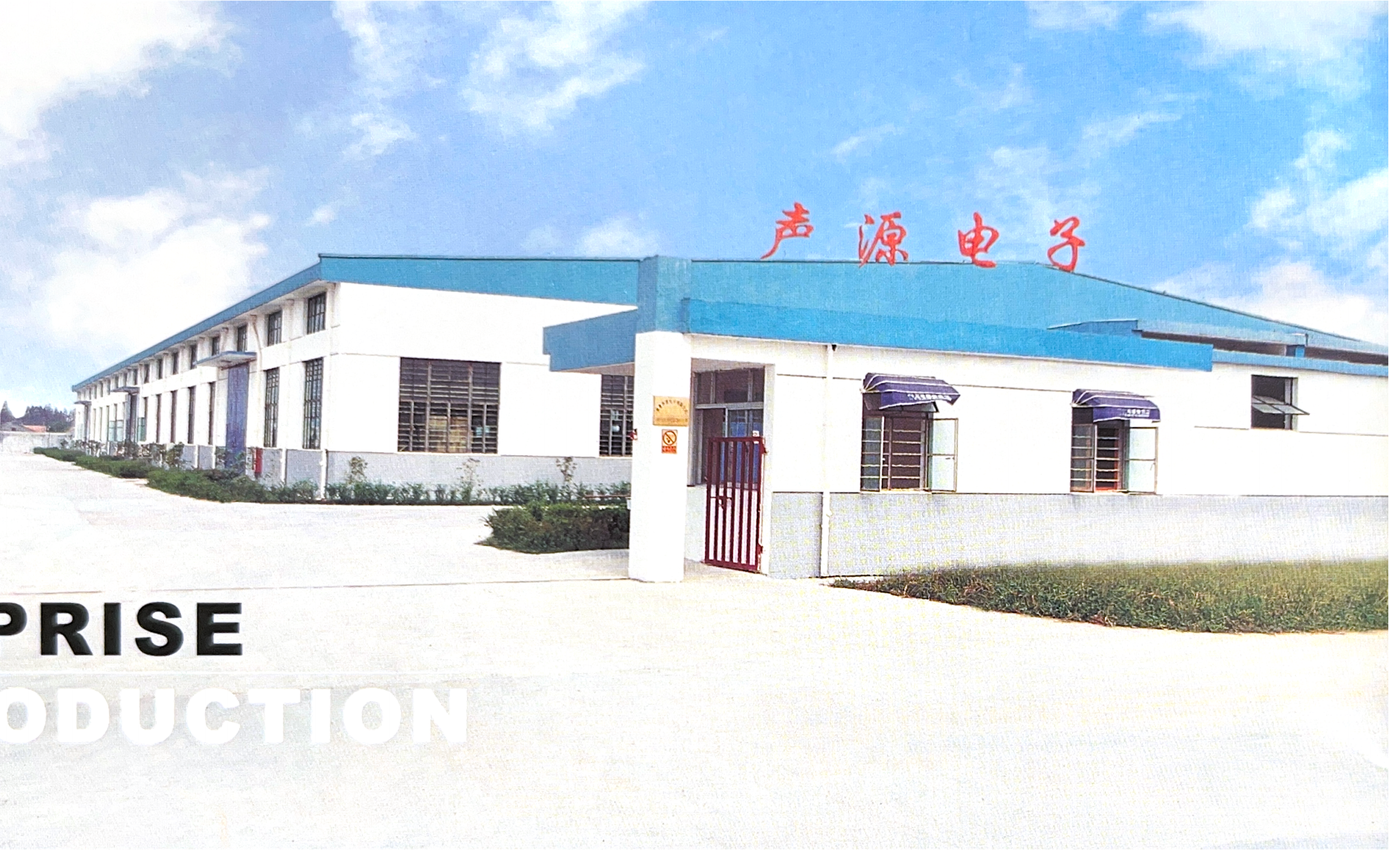
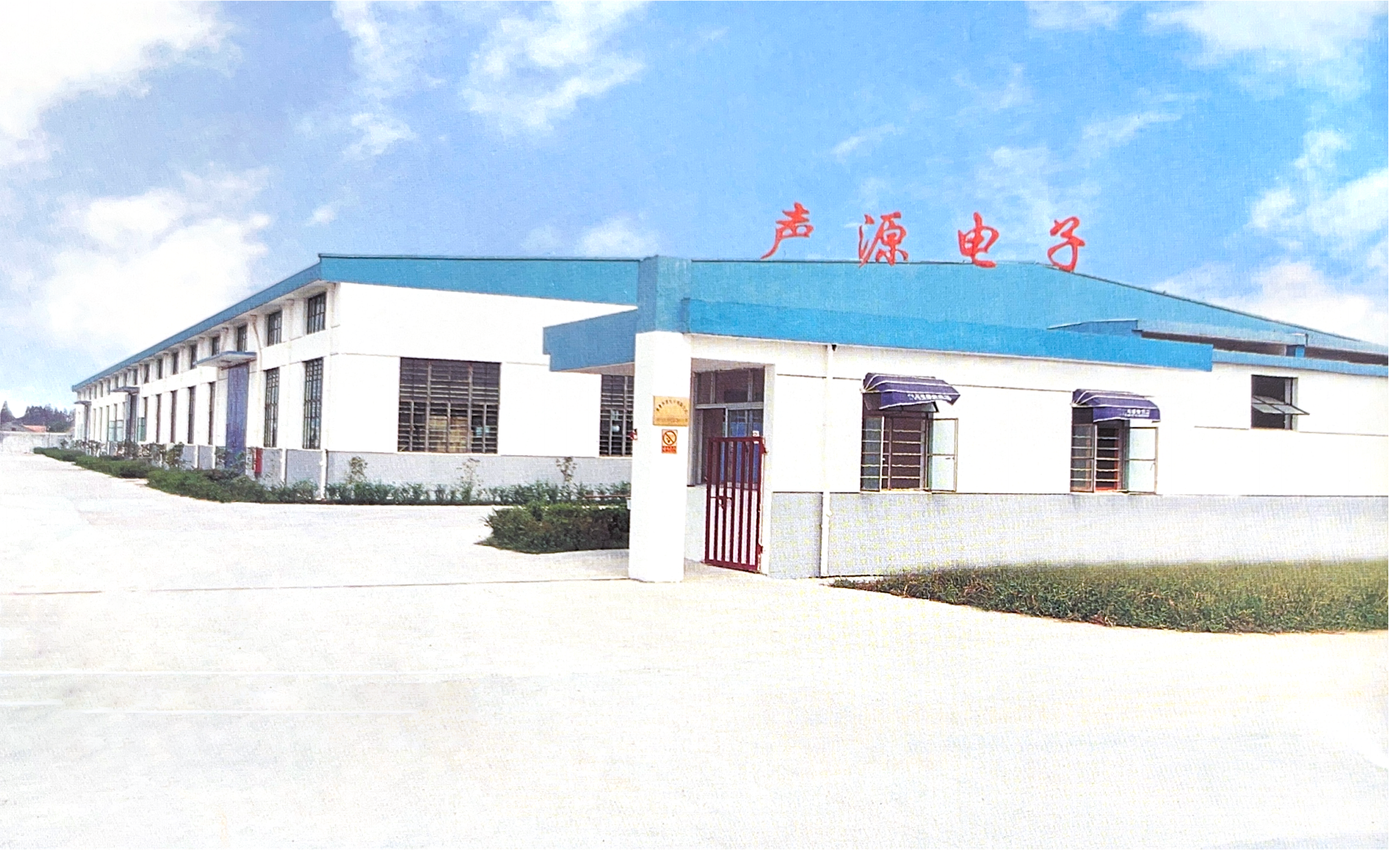
Add about us, rename AcouSource electronics to AcouSource Audio

Changed region(s): [[0.0, 0.7048, 0.1866, 0.8581], [0.2799, 0.8274, 0.3421, 0.8581]]

diff --git a/_includes/_about.html b/_includes/_about.html
@@ -1,0 +1,58 @@
+<div class="row">
+<div class="medium-6 columns{% if page.sidebar == NULL %} medium-offset-3 end{% endif %}{% if page.sidebar == 'left' %} medium-push-4{% endif %}">
+<img src="{{ site.urlimg }}factory.png" alt="">
+</div>
+</div>
+
+<div class="row t30">
+    <div class="medium-2 columns">
+    </div>
+    <div class="medium-10 columns">
+        Located in Zhejiang, China, AcouSource Audio has been designing and manufacturing speaker products since 2000.
+    </div>
+</div>
+
+<div class="row t30">
+<div class="medium-2 columns">
+    <h3 class = "about-title"> Products </h3>
+</div>
+<div class="medium-10 columns">
+    We specialize in the design and production of speaker drivers, including woofers, subwoofers, midrange drivers, and tweeters. Our products are widely applied in professional audio systems, home audio equipment, and other sound applications. We also manufacture various other audio products such as speaker enclosures and ceiling speakers.
+</div>
+</div>
+
+<div class="row t30">
+    <div class="medium-2 columns">
+        <h3 class = "about-title"> Service </h3>
+    </div>
+    <div class="medium-10 columns">
+        In addition to our own white-label product lines, we provide flexible OEM services tailored to customer requirements. We are capable of developing products based on technical specifications, physical samples, or reference designs. We understand the importance of accurate reproduction, component sourcing, and quality consistency in OEM projects.
+    </div>
+</div>
+
+<div class="row t30">
+<div class="medium-2 columns">
+    <h3 class = "about-title"> Team </h3>
+</div>
+<div class="medium-10 columns">
+    We have experienced engineers and production workers with more than 20 years of industry experience. Our team supports customers from product evaluation and sample development to mass production, ensuring stable quality and consistent performance. We also provide fluent English customer service.
+</div>
+</div>
+
+<div class="row t30">
+    <div class="medium-2 columns">
+        <h3 class = "about-title"> Customers </h3>
+    </div>
+    <div class="medium-10 columns">
+With over two decades of continuous operation, we have built long-term partnerships with customers across multiple international markets. Our products are exported worldwide, with primary markets in Europe, North America, Latin America, and Africa. Over the years, we have gained experience working with international customers, including brand owners, distributors, and private-label companies.
+    </div>
+</div>
+
+<div class="row t30">
+    <div class="medium-2 columns">
+        <h3 class = "about-title"> Promise </h3>
+    </div>
+    <div class="medium-10 columns">
+AcouSource Audio is committed to building long-term, reliable partnerships by providing practical manufacturing solutions, stable product quality, and dependable service.
+    </div>
+</div>

diff --git a/_sass/_07_layout.scss b/_sass/_07_layout.scss
@@ -392,3 +392,9 @@ body.video cite { color: #fff; }
 .pr5  { padding-right: 5px !important; }
 .pr10 { padding-right: 10px !important; }
 .pr20 { padding-right: 20px !important; }
+
+.about-title {
+    margin-top: 0px !important;
+    text-align: right;
+    color: $ci-1;
+}

diff --git a/pages/about-us.md b/pages/about-us.md
@@ -1,13 +1,7 @@
 ---
-layout              : page
+layout              : page-fullwidth
 show_meta           : false
-title               : "About AcouSource Electronics"
+title               : "About AcouSource Audio"
 permalink           : "/about-us/"
 ---
-<img src="{{ site.urlimg }}factory.png" alt="">
-
-HIWELL was founded in Guangzhou, China in 2009. We don't have a long history, but we have the spirit of Chinese people who are hard-working, good at learning and innovative. Pursue "full efficient and all-round" products and adhere to the "to serve you wholeheartedly" service. </p>
-
-HIWELL is a manufacturer of high quality professional loudspeakers. In order to improve the process quality and production efficiency of our products, we independently design and manufacture automated production line equipment for professional loudspeakers, making our products more competitive in the industry. In terms of product design and component material specifications, our design patents are approved by the National Patent Certification.
-
-Only the highest quality materials sourced from the world’s most respected suppliers are used in our quest to produce the perfect transducer solutions. Every product represents the cutting edge in acoustic design technology, engineering and material science, optimised performance and outstanding durability coupled with amazing value. Built to a high standard with systematic testing and strict quality controls that ensures performance excellence is retained indefinitely.
+{% include _about.html %}

diff --git a/pages/pages-root-folder/index.md b/pages/pages-root-folder/index.md
@@ -1,6 +1,6 @@
 ---
 layout: frontpage
-title: "AcouSource Electronics"
+title: "AcouSource Audio"
 teaser: "Located in Zhejiang, China, AcouSource has been designing and manufacturing speaker products since 2000, specializing in woofer, subwoofer, and midrange drivers. We provide OEM services to global clients. Our mission is to deliver high-quality audio solutions that meet the diverse needs of our customers."
 categories:
   - design
